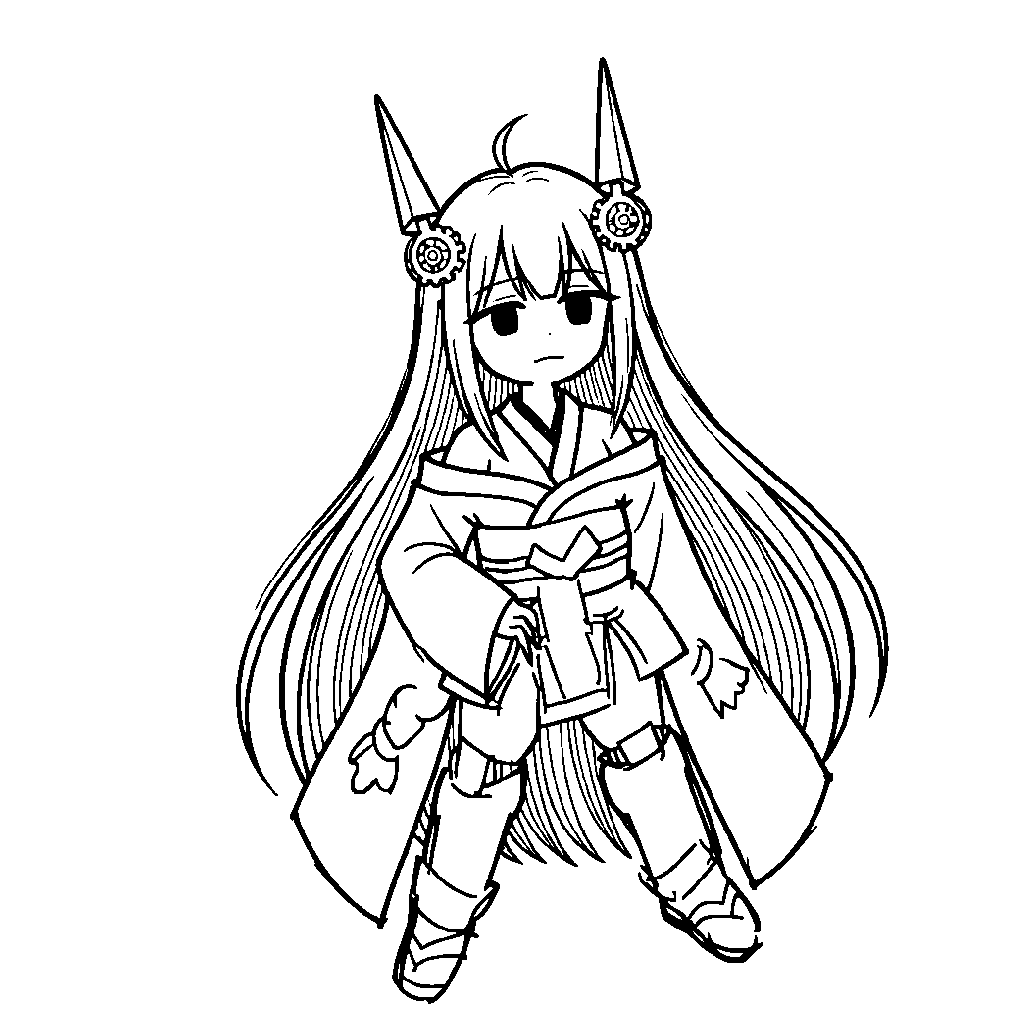
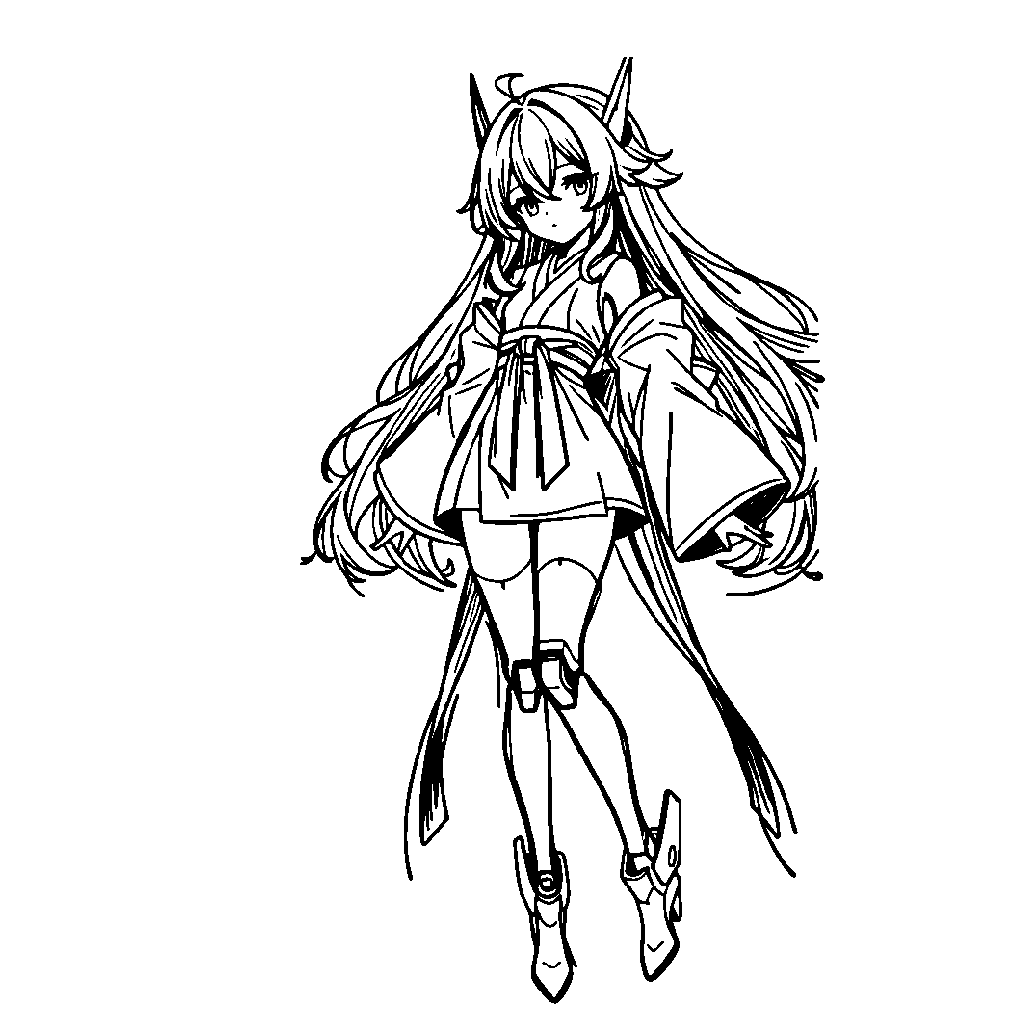
プロト・レンの 立ち絵を 描きなおした：メインさんの ちびキャラの 立ち姿に 重ねて 描かせていたので、顔の 大きさに 対して 肩・腰・脚の 位置が おかしかった。公式の AI絵（正しい 骨格）から 線画に して、形を 保ったまま 線だけ 荒い マウス線に 崩し、2値化・切り抜き。頭身が 高いので 会話では 胸から 上だけ（portraitCrop 0.42、アルと 同じ）

Changed region(s): [[0.2188, 0.0625, 0.875, 1.0], [0.3125, 0.8438, 0.3438, 0.875]]

diff --git a/src/data/mobs.ts b/src/data/mobs.ts
@@ -1467,6 +1467,8 @@ export const MOBS: Record<MobId, MobDef> = {
 	proto: {
 		name: "プロト",
 		portrait: "portraits/zero_proto.png",
+		// 頭身の 高い 絵なので 胸から 上だけに（アルと 同じ）
+		portraitCrop: 0.42,
 		sprite: "sa:KxS5YZ",
 		from: 2,
 		spot: [13, 22],
@@ -1589,6 +1591,7 @@ export const MOBS: Record<MobId, MobDef> = {
 	ren: {
 		name: "レン",
 		portrait: "portraits/zero_ren.png",
+		portraitCrop: 0.42,
 		sprite: "pub:sprites/zero_ren.png",
 		from: 6,
 		spot: [25, 20],

diff --git a/ART_TODO.md b/ART_TODO.md
@@ -13,7 +13,7 @@
 |---|---|---|---|
 | 革命シヨ（倉庫番） | `portraits/shiyo.png` | 描いてあります | 16歳・金髪ポニテ（赤い 髪ゴム）・猫耳カチューシャ・丸眼鏡・赤い目・紺の メイド服に 白エプロン。気が強い ツンデレ |
 | 解音ゼロ VHz8-0・メインさん（帳簿・記録） | `portraits/zero.png` | 描いてあります | 束音ロゼの 反転：うすい 金髪ロング・青い 耳の パーツ（アンドロイド）・水色の 目・白い 着物に 青い 帯・紺の 袴 |
-| 解音ゼロ HeBc-0・プロト（村の 住人） | `portraits/zero_proto.png` | Claude が 画像生成AIで 作った 仮（メインさんの 立ち絵の 線を まねた 下絵を 2値化） | 公式の サブ機（AI生成）。まっすぐな 長い 金髪・切りはなした 長い 袖・肩出し・機械の ひざ・無表情 |
+| 解音ゼロ HeBc-0・プロト（村の 住人） | `portraits/zero_proto.png` | Claude が 画像生成AIで 作った 仮（公式の AI絵を 線画に → 線を 荒く → 2値化。頭身は 公式どおりで、会話では 胸から 上だけ） | 公式の サブ機（AI生成）。まっすぐな 長い 金髪・切りはなした 長い 袖・肩出し・機械の ひざ・無表情 |
 | 解音ゼロ XQxS-0・レン（村の 住人） | `portraits/zero_ren.png` | Claude が 画像生成AIで 作った 仮（同上） | 公式の サブ機（AI生成）。先が 青い 金髪・黒い 角・黒い 脚の よろい・マイクスタンド |
 | 春音リノ（村の 住人） | `portraits/rino.png` | 描いてあります | 女・45歳・カーキの 軍服と 軍帽・髪は「アバンギャルドメタリック」（歩行グラでは 銀紫）・小物は 銃みたいな コッペパン。ドSで 口数が 少ない |
 | 響化アル（村の 住人） | `portraits/aru.png` | 描いてあります | 男・18歳・177cm・紺の 長めの マッシュ・眼鏡・しぶきの ついた 黒い 長コートに ネクタイ（公式の 立ち絵）・科学部。いちばん 新しい 子で、キリコを 先輩と 呼ぶ |
